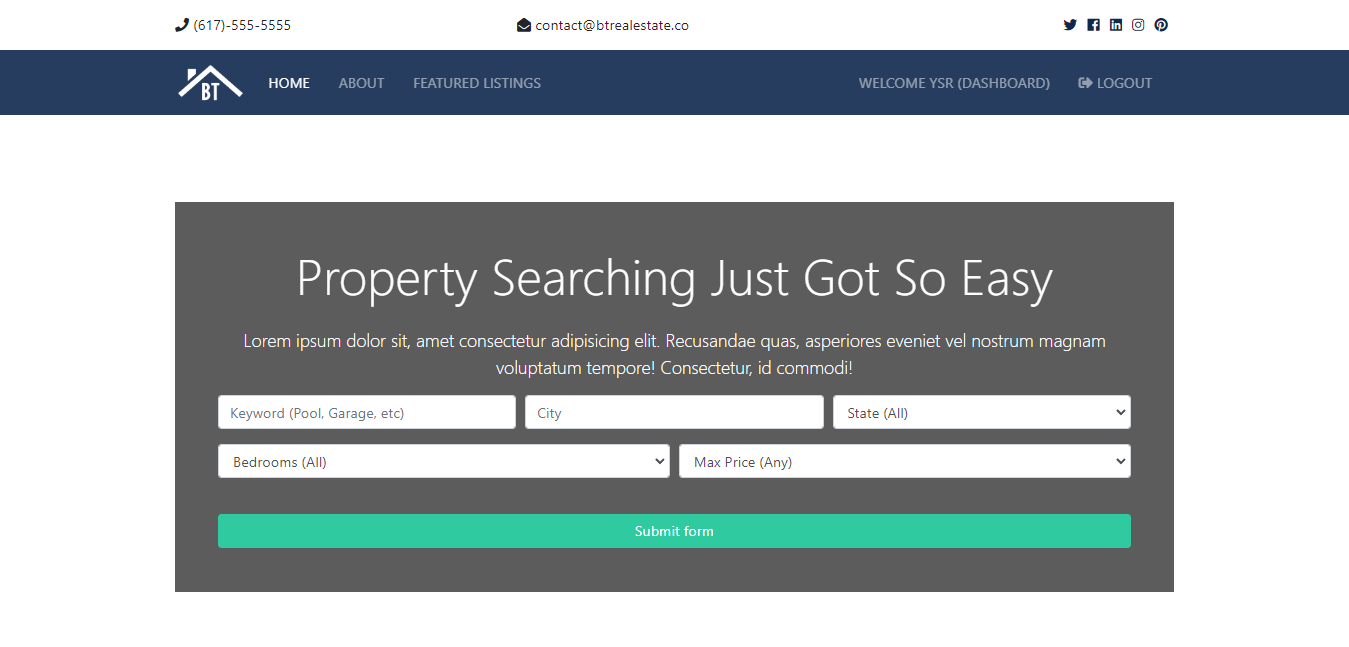
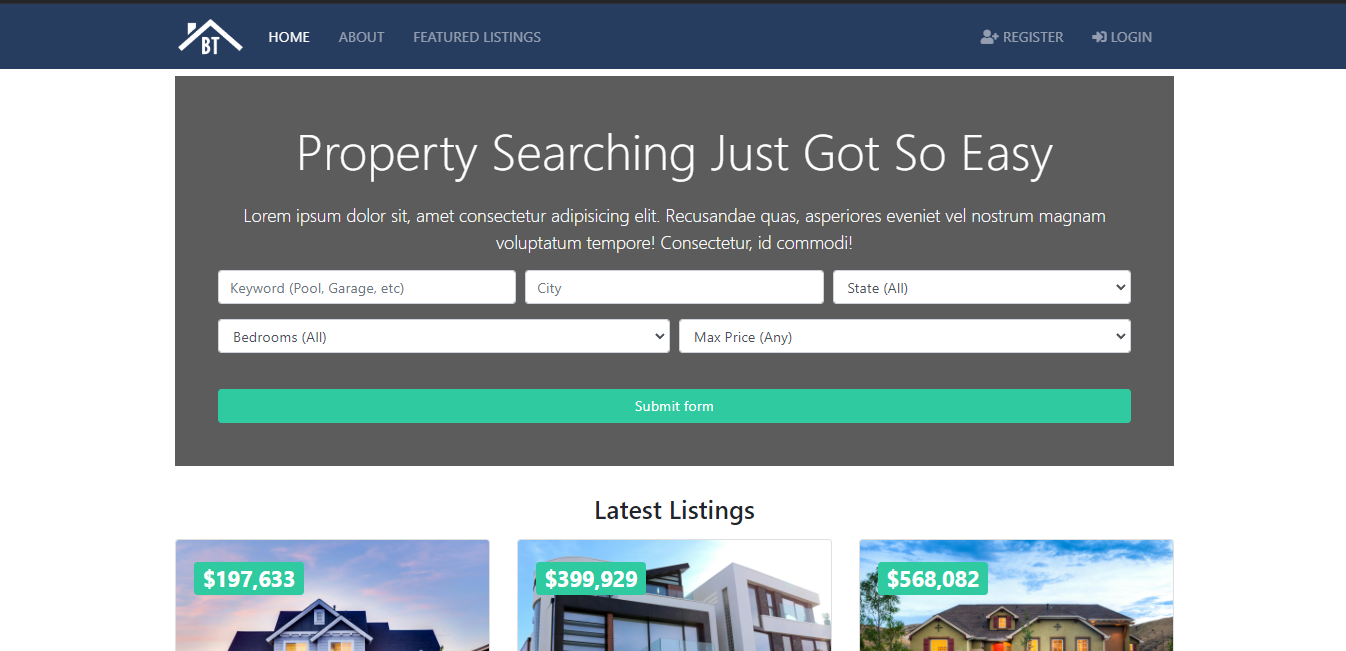
commit

diff --git a/btre/static/css/style.css b/btre/static/css/style.css
@@ -17,9 +17,9 @@ img {
 #showcase {
   background: url(../img/showcase.jpg) no-repeat top center fixed/cover;
   position: relative;
-  min-height: 650px;
+  min-height: 512px;
   color: #fff;
-  padding-top: 6rem; }
+  padding-top: 3rem; }
   #showcase .home-search {
     min-height: 400px;
     position: relative;

diff --git a/templates/pages/index.html b/templates/pages/index.html
@@ -70,7 +70,7 @@
   {% include 'partials/_alerts.html' %}
 
   <!-- Listings -->
-  <section id="listings" class="py-5">
+  <section id="listings" class="pb-5">
     <div class="container">
       <h3 class="text-center mb-3">Latest Listings</h3>
       <div class="row">
